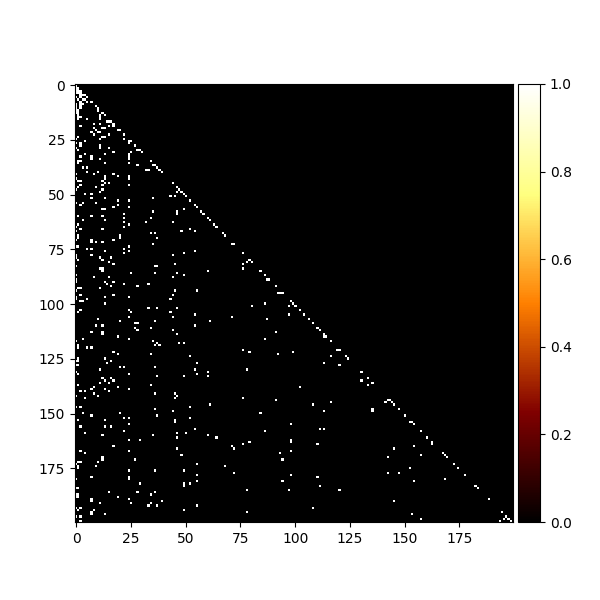
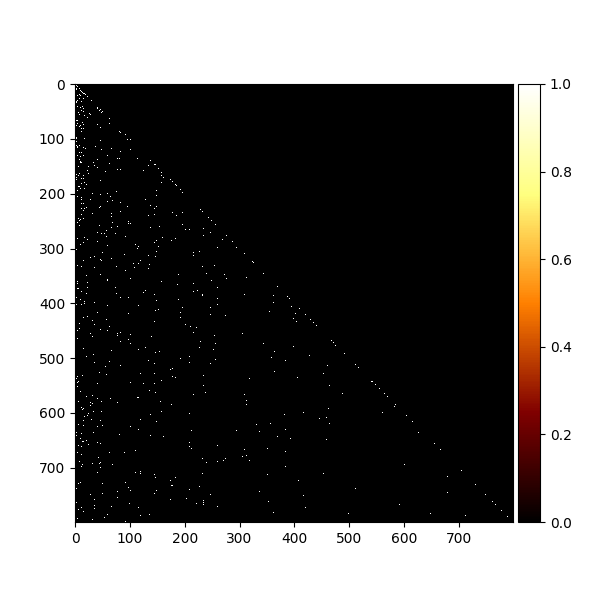
distance using networkx

diff --git a/DSTools/networkx/short_path.py b/DSTools/networkx/short_path.py
@@ -12,8 +12,26 @@ G.add_edges_from([('a','b'),('a','c'),('b','d'),('b','e'),
                   ('e','h'),('c','f'),('c','g')])
 
 # sp = nx.all_pairs_shortest_path(G)
-# print sp
-# print sp['b']['g']
-spl = nx.all_pairs_shortest_path_length(G)
-print spl['a']
-# print spl['b']['g']
+# for i in sp:
+#     print(i)
+path = dict(nx.all_pairs_shortest_path(G))
+# print(path['a']['g'])
+
+
+
+G = nx.path_graph(5)
+# print(nx.shortest_path_length(G, source=0, target=4))
+p = nx.shortest_path_length(G, source=0) # target not specified
+p = nx.shortest_path_length(G, target=4)  # source not specified
+p = dict(nx.shortest_path_length(G, weight=None))  # source,target not specified
+# print(p)
+ave = []
+for i in p:
+    ave_ = np.mean(list(p[i].values()))
+    ave.append(ave_)
+    
+# print(np.mean(ave))
+# print(nx.average_shortest_path_length(G, weight=None))
+
+# https://networkx.github.io/documentation/stable/reference/algorithms/shortest_paths.html
+average_shortest_path_length

diff --git a/DSTools/networkx/distance/distance_DAG.py b/DSTools/networkx/distance/distance_DAG.py
@@ -39,7 +39,7 @@ def make_topological_sorted(A):
     return An
 
 
-N = 200
+N = 800
 cname = str('SF-DAG-%d.dat' % N)
 adj = np.loadtxt(cname, dtype=int)
 
@@ -70,7 +70,7 @@ def defineDirectedGraph(adj, fileName):
 
 print ("after topological sorting" + "*" * 20)
 sorted_adj = make_topological_sorted(adj)
-np.savetxt("sorted-SF-DAG.dat", sorted_adj * 2, fmt="%d")
+np.savetxt(str("sorted-SF-DAG-%d.dat" % N), sorted_adj, fmt="%d")
 hub_index, DG = defineDirectedGraph(sorted_adj, "sadj")
 # print(DG.out_degree())
 p = nx.shortest_path_length(DG, source=0)
